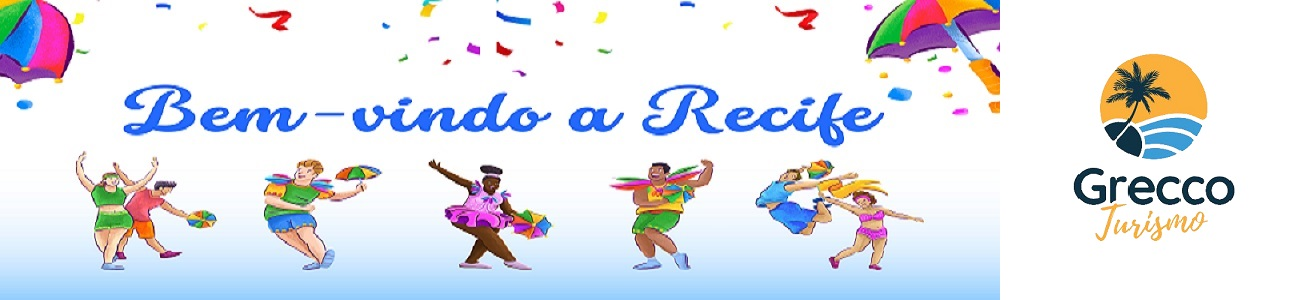
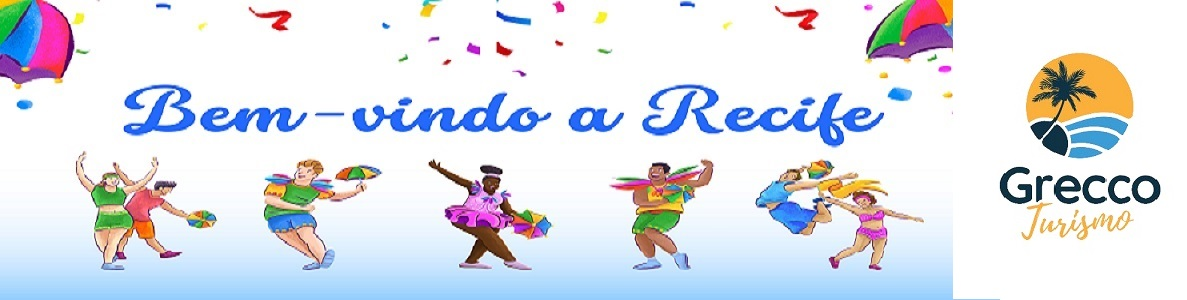
finalização

diff --git a/styles.css b/styles.css
@@ -27,11 +27,12 @@ body{
 #area-logo{
     position: absolute;
     background: url('./img/carnaval.jpg') no-repeat;
-    width: 200%;
+    width: 100%;
     height: 300px;
     top:0;
     left:0;
     z-index: 1;
+    right: 0;
 }
 
 
@@ -62,13 +63,6 @@ ul#navegacao a{
 ul#navegacao a:hover{
     background: #fdf6be;
 }
-
-.three-line-icon{
-    display: none;
-    color:#77b6ea;
-}
-
-
 
 
 /*Área de conteúdos
